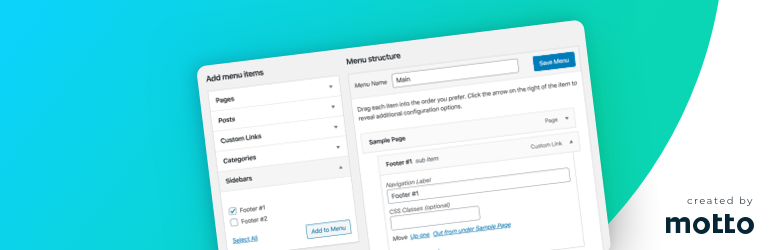
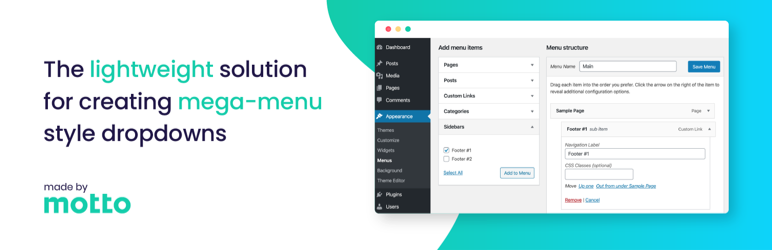
Updated readme and assets, tested for 5.8

diff --git a/sidebar-menu-items.php b/sidebar-menu-items.php
@@ -15,7 +15,7 @@
  * Plugin Name:       Sidebar Menu Items
  * Plugin URI:        http://github.com/mottodesignstudio/wp-sidebar-menu-items
  * Description:       Use sidebar areas within your menus.
- * Version:           0.1.5
+ * Version:           0.1.6
  * Author:            Motto
  * Author URI:        https://motto.ca
  * License:           GPL-2.0+
@@ -34,7 +34,7 @@ if ( ! defined( 'WPINC' ) ) {
  * Start at version 0.1.2 and use SemVer - https://semver.org
  * Rename this for your plugin and update it as you release new versions.
  */
-define( 'SIDEBAR_MENU_ITEMS_VERSION', '0.1.5' );
+define( 'SIDEBAR_MENU_ITEMS_VERSION', '0.1.6' );
 
 /**
  * The code that runs during plugin activation.
